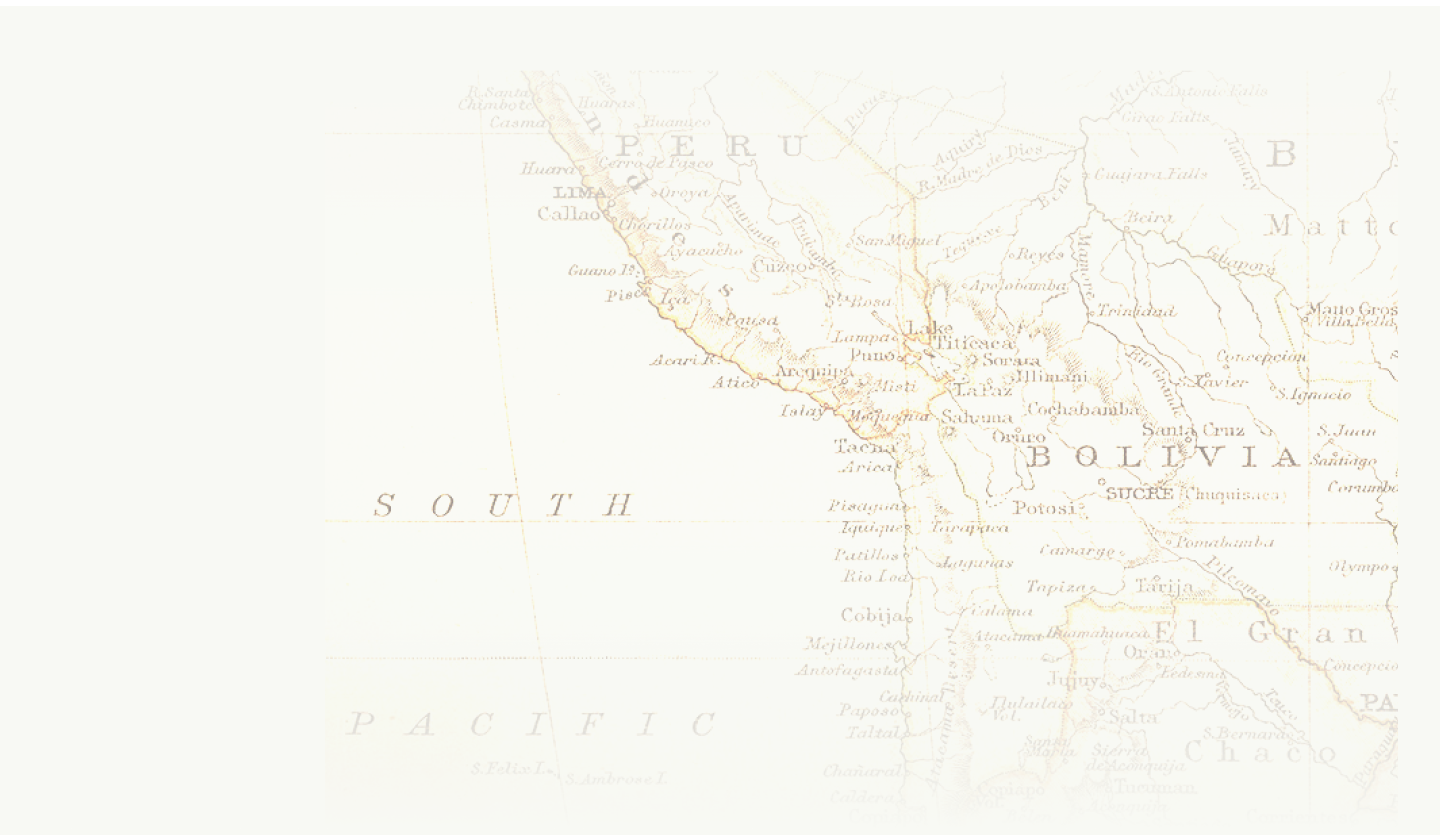
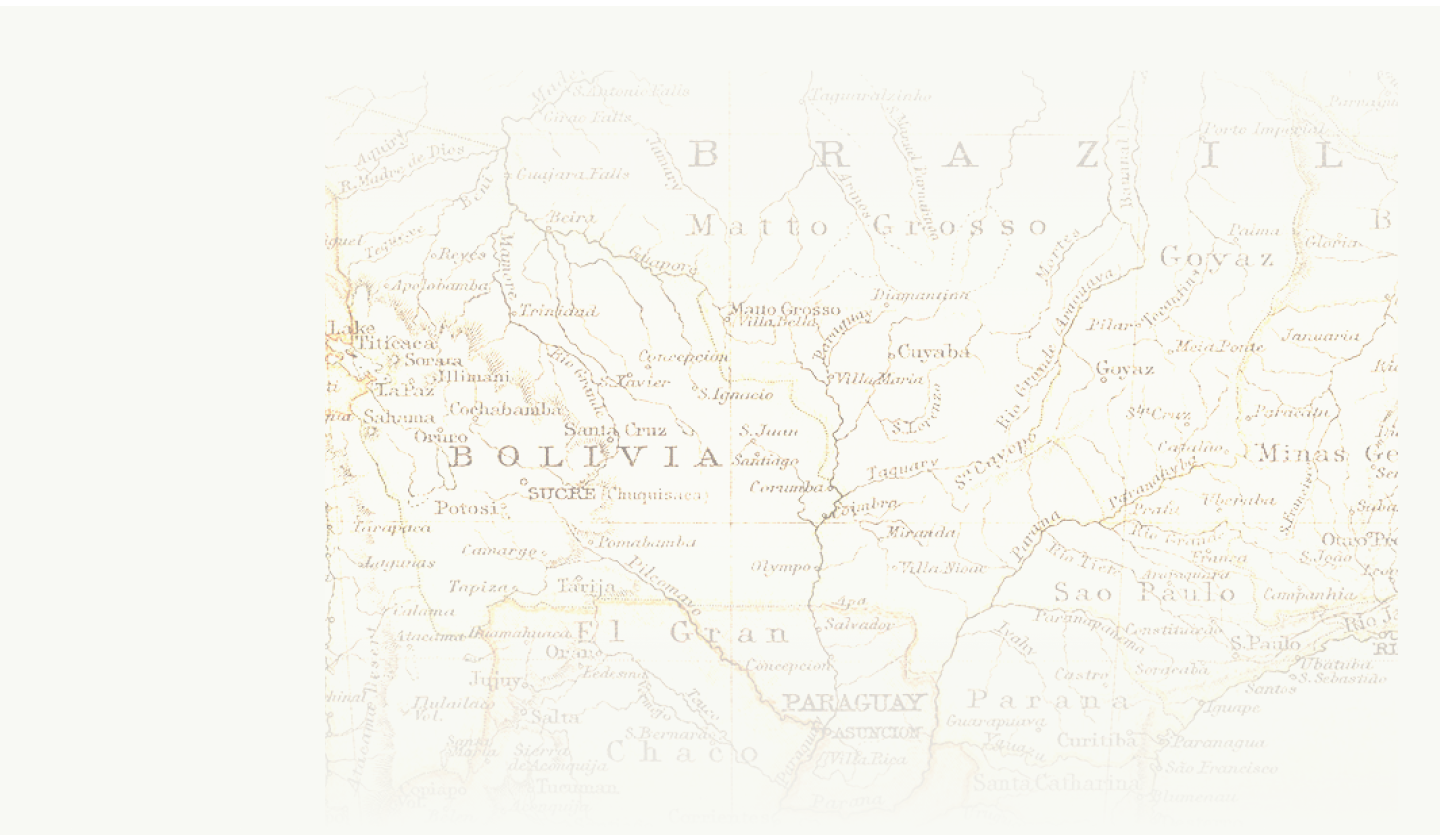
Rename AI assistant to Selma, update culture headline, fix map asset
Renames the AI concierge persona from Gaúcho to Selma across the
desktop widget and the mobile experience (display text only — internal
class/function/file names are unchanged). Updates the culture section
headline to "Experience the flavor of south brazil" with Brazil broken
onto its own line, and swaps in the fixed brazilmap.png background
asset (the prior version had a rendering glitch).

diff --git a/ai-concierge.js b/ai-concierge.js
@@ -1,11 +1,12 @@
 // Gaúcho — website AI concierge (desktop widget, matches gaucho.js aesthetic/pattern)
 
-const AI_GREETING = "I'm Gaúcho. I can help you schedule a reservation, book a large party, answer menu questions, suggest a wine pairing, or fill you in on Fogo Rewards. What can I help with?";
+const AI_GREETING = "I'm Selma. I can help you schedule a reservation, book a large party, answer menu questions, suggest a wine pairing, or fill you in on Fogo Rewards. What can I help with?";
 
 const AI_RESPONSES = [
   {
     hit: ['reservation', 'reserve', 'table', 'book'],
-    reply: "I can help with that — head to our reservations page to pick a time, or tell me the party size and date and I'll flag it for our host stand.",
+    reply: "Happy to help — let's get your table booked.",
+    action: 'reserve',
   },
   {
     hit: ['churrasco', 'how does this work'],
@@ -37,7 +38,7 @@ const AI_FALLBACK = "Great question — I'll make sure our team follows up. In t
 
 function matchAiConcierge(text) {
   const q = text.toLowerCase();
-  return (AI_RESPONSES.find((r) => r.hit.some((h) => q.includes(h))) || { reply: AI_FALLBACK }).reply;
+  return AI_RESPONSES.find((r) => r.hit.some((h) => q.includes(h))) || { reply: AI_FALLBACK };
 }
 
 const aiBackdrop = document.getElementById('aiBackdrop');
@@ -49,7 +50,11 @@ const aiCloseBtn = document.getElementById('aiCloseBtn');
 const navAiBtn = document.getElementById('navAiBtn');
 const aiQuickReplies = document.getElementById('aiQuickReplies');
 
+const DEFAULT_QUICK_REPLIES_HTML = aiQuickReplies ? aiQuickReplies.innerHTML : '';
+const DEFAULT_INPUT_PLACEHOLDER = aiInput ? aiInput.placeholder : '';
+
 let aiStarted = false;
+let reservation = null; // { step: 'party' | 'date' | 'time' | 'name', party, date, time, name }
 
 function scrollAiToBottom() {
   aiMessages.scrollTop = aiMessages.scrollHeight;
@@ -76,11 +81,113 @@ function hideAiTyping() {
   document.getElementById('aiTypingIndicator')?.remove();
 }
 
+function setAiQuickReplies(chips) {
+  if (!aiQuickReplies) return;
+  aiQuickReplies.innerHTML = chips
+    .map((c) => `<button type="button" class="ai-chip" data-q="${c.value}">${c.label}</button>`)
+    .join('');
+}
+
+function restoreDefaultQuickReplies() {
+  if (aiQuickReplies) aiQuickReplies.innerHTML = DEFAULT_QUICK_REPLIES_HTML;
+  if (aiInput) aiInput.placeholder = DEFAULT_INPUT_PLACEHOLDER;
+}
+
+// Next 6 selectable days, OpenTable-style, starting today
+function buildReservationDates() {
+  const out = [];
+  const today = new Date();
+  for (let i = 0; i < 6; i++) {
+    const d = new Date(today);
+    d.setDate(today.getDate() + i);
+    let label;
+    if (i === 0) label = 'Today';
+    else if (i === 1) label = 'Tomorrow';
+    else label = `${d.toLocaleDateString('en-US', { weekday: 'short' })} ${d.getDate()}`;
+    out.push(label);
+  }
+  return out;
+}
+
+const RESERVATION_TIMES = ['5:00 PM', '5:30 PM', '6:00 PM', '6:30 PM', '7:00 PM', '7:30 PM', '8:00 PM'];
+
+function startReservationFlow() {
+  reservation = { step: 'party' };
+  showAiTyping();
+  setTimeout(() => {
+    hideAiTyping();
+    addAiMessage('First — how many people in your party?', 'ai');
+    setAiQuickReplies(
+      ['2', '3', '4', '5', '6', '8 or more'].map((v) => ({ label: v, value: v }))
+    );
+  }, 500);
+}
+
+function cancelReservationFlow() {
+  reservation = null;
+  addAiMessage("No problem — let me know whenever you're ready to book.", 'ai');
+  restoreDefaultQuickReplies();
+}
+
+function advanceReservation(value) {
+  showAiTyping();
+  setTimeout(() => {
+    hideAiTyping();
+    const step = reservation.step;
+
+    if (step === 'party') {
+      reservation.party = value;
+      reservation.step = 'date';
+      addAiMessage(`Party of ${value} — got it. What day works?`, 'ai');
+      setAiQuickReplies(buildReservationDates().map((d) => ({ label: d, value: d })));
+    } else if (step === 'date') {
+      reservation.date = value;
+      reservation.step = 'time';
+      addAiMessage(`${value} it is. What time?`, 'ai');
+      setAiQuickReplies(RESERVATION_TIMES.map((t) => ({ label: t, value: t })));
+    } else if (step === 'time') {
+      reservation.time = value;
+      reservation.step = 'name';
+      addAiMessage("Perfect. What name should we put the reservation under?", 'ai');
+      setAiQuickReplies([]);
+      if (aiInput) aiInput.placeholder = 'Type the name for your reservation…';
+    } else if (step === 'name') {
+      reservation.name = value;
+      reservation.step = 'notes';
+      addAiMessage(
+        "Last thing — anything specific we should know? Dietary considerations, allergies, or anything about the guest experience that'd make the visit better.",
+        'ai'
+      );
+      setAiQuickReplies([{ label: 'Nothing to add', value: 'Nothing to add' }]);
+      if (aiInput) aiInput.placeholder = 'Type any details…';
+    } else if (step === 'notes') {
+      reservation.notes = value;
+      finishReservation();
+    }
+  }, 700 + Math.random() * 500);
+}
+
+function finishReservation() {
+  const { party, date, time, name, notes } = reservation;
+  const hasNotes = notes && notes.toLowerCase() !== 'nothing to add';
+  const noteLine = hasNotes ? ` I've noted: "${notes}."` : '';
+  addAiMessage(
+    `You're all set, ${name} — party of ${party} on ${date} at ${time}.${noteLine} We'll have your table ready. See you soon!`,
+    'ai'
+  );
+  reservation = null;
+  restoreDefaultQuickReplies();
+}
+
 function aiReplyTo(userText) {
   showAiTyping();
   setTimeout(() => {
     hideAiTyping();
-    addAiMessage(matchAiConcierge(userText), 'ai');
+    const match = matchAiConcierge(userText);
+    addAiMessage(match.reply, 'ai');
+    if (match.action === 'reserve') {
+      setTimeout(() => startReservationFlow(), 500);
+    }
   }, 700 + Math.random() * 500);
 }
 
@@ -89,7 +196,16 @@ function sendAiUserMessage(text) {
   if (!trimmed) return;
   addAiMessage(trimmed, 'user');
   aiInput.value = '';
-  aiReplyTo(trimmed);
+
+  if (reservation) {
+    if (['cancel', 'never mind', 'nevermind', 'stop'].includes(trimmed.toLowerCase())) {
+      cancelReservationFlow();
+    } else {
+      advanceReservation(trimmed);
+    }
+  } else {
+    aiReplyTo(trimmed);
+  }
 }
 
 function openAiPanel() {
@@ -112,6 +228,8 @@ function closeAiPanel() {
   aiMessages.innerHTML = '';
   aiInput.value = '';
   aiStarted = false;
+  reservation = null;
+  restoreDefaultQuickReplies();
 }
 
 if (navAiBtn) navAiBtn.addEventListener('click', openAiPanel);
@@ -126,7 +244,9 @@ if (aiForm) {
 }
 
 if (aiQuickReplies) {
-  aiQuickReplies.querySelectorAll('.ai-chip').forEach((chip) => {
-    chip.addEventListener('click', () => sendAiUserMessage(chip.dataset.q));
+  aiQuickReplies.addEventListener('click', (e) => {
+    const chip = e.target.closest('.ai-chip');
+    if (!chip) return;
+    sendAiUserMessage(chip.dataset.q);
   });
 }

diff --git a/gaucho.js b/gaucho.js
@@ -1,6 +1,6 @@
 // Gaucho - in-restaurant AI meal assistant (mobile experience)
 
-const GAUCHO_GREETING = "I'm Gaucho, your table's meal assistant tonight. Ask me about the menu, get a wine pairing, flag a dietary need, or just say hi. What can I help with?";
+const GAUCHO_GREETING = "I'm Selma, your table's meal assistant tonight. Ask me about the menu, get a wine pairing, flag a dietary need, or just say hi. What can I help with?";
 
 const GAUCHO_RESPONSES = [
   {
@@ -342,13 +342,15 @@ function closeCulturePanel() {
 if (cultureCloseBtn) cultureCloseBtn.addEventListener('click', closeCulturePanel);
 
 const PORTUGUESE_PHRASES = [
-  { english: 'Cheers!', portuguese: 'Saude!', phonetic: 'sah-OO-jee', image: 'images/statics/image%20445.png' },
-  { english: 'Delicious', portuguese: 'Delicioso', phonetic: 'deh-lee-see-OH-zoo', image: 'images/statics/charuterie.png' },
-  { english: 'Thank you', portuguese: 'Obrigado', phonetic: 'oh-bree-GAH-doo', image: 'images/statics/image%20443.png' },
-  { english: 'Fire', portuguese: 'Fogo', phonetic: 'FOH-goo', image: 'images/statics/fire%20bg-full.png' },
-  { english: 'Friend', portuguese: 'Amigo', phonetic: 'ah-MEE-goo', image: 'images/statics/the%20bar.png' },
-  { english: 'Grilled meat', portuguese: 'Churrasco', phonetic: 'shoo-HAHS-koo', image: 'images/statics/image%20441.png' },
+  { english: 'Cheers!', portuguese: 'Saude!', phonetic: 'sah-OO-jee', image: 'images/gaucho/phrases/cheers.jpg' },
+  { english: 'Delicious', portuguese: 'Delicioso', phonetic: 'deh-lee-see-OH-zoo', image: 'images/gaucho/phrases/delicious.jpg' },
+  { english: 'Thank you', portuguese: 'Obrigado', phonetic: 'oh-bree-GAH-doo', image: 'images/gaucho/phrases/thankyou.jpg' },
+  { english: 'Fire', portuguese: 'Fogo', phonetic: 'FOH-goo', image: 'images/gaucho/phrases/fire.jpg' },
+  { english: 'Friend', portuguese: 'Amigo', phonetic: 'ah-MEE-goo', image: 'images/gaucho/phrases/friend.jpg' },
+  { english: 'Grilled meat', portuguese: 'Churrasco', phonetic: 'shoo-HAHS-koo', image: 'images/gaucho/phrases/churrasco.jpg' },
 ];
+
+PORTUGUESE_PHRASES.forEach((phrase) => { new Image().src = phrase.image; });
 
 const phraseImage = document.getElementById('phraseImage');
 const phraseEnglish = document.getElementById('phraseEnglish');

diff --git a/index.html b/index.html
@@ -21,7 +21,7 @@
 
     <div class="nav-actions">
       <a href="#" class="btn btn-clay nav-reservations">Reservations</a>
-      <button type="button" class="nav-ai-btn" id="navAiBtn" aria-label="Ask Gaúcho">
+      <button type="button" class="nav-ai-btn" id="navAiBtn" aria-label="Ask Selma">
         <img src="Icons/ai.png" alt="" class="nav-ai-icon">
       </button>
     </div>
@@ -81,7 +81,7 @@
   <header class="ai-panel-header">
     <span class="ai-panel-identity">
       <span class="ai-panel-avatar"><img src="Icons/ai.png" alt=""></span>
-      <span class="ai-panel-name">Gaucho</span>
+      <span class="ai-panel-name">Selma</span>
     </span>
     <button type="button" class="ai-panel-close" id="aiCloseBtn" aria-label="Close">
       <span></span><span></span>
@@ -100,7 +100,7 @@
   </div>
 
   <form class="ai-panel-input-row" id="aiForm">
-    <input type="text" id="aiInput" placeholder="Ask Ga&uacute;cho anything&hellip;" autocomplete="off">
+    <input type="text" id="aiInput" placeholder="Ask Selma anything&hellip;" autocomplete="off">
     <button type="submit" class="ai-send-btn" aria-label="Send">
       <svg viewBox="0 0 24 24" fill="none" aria-hidden="true"><path d="M4 12h15.5M13 5.5 19.5 12 13 18.5" stroke="currentColor" stroke-width="2" stroke-linecap="round" stroke-linejoin="round"/></svg>
     </button>
@@ -185,7 +185,7 @@
     <div class="culture-inner">
       <img src="images/statics/meatskewer.png" alt="Fire-roasted meat skewer, carved tableside" class="culture-skewer">
       <span class="culture-eyebrow">The Art of Churrasco /Since 1975</span>
-      <h2 class="culture-title">Experience<br>the culture<br>of brazil</h2>
+      <h2 class="culture-title">Experience<br>the flavor<br>of south<br>brazil</h2>
 
       <div class="culture-col culture-col-right">
         <h4 class="culture-h4">What is Churrasco?</h4>

diff --git a/gaucho.html b/gaucho.html
@@ -3,7 +3,7 @@
 <head>
 <meta charset="UTF-8">
 <meta name="viewport" content="width=device-width, initial-scale=1.0, viewport-fit=cover">
-<title>Gaucho - Your Table's AI Meal Assistant</title>
+<title>Selma - Your Table's AI Meal Assistant</title>
 <link rel="stylesheet" href="style.css">
 <link rel="stylesheet" href="gaucho.css">
 </head>
@@ -27,7 +27,7 @@
     <div class="home-content">
       <p class="home-welcome-line"><strong>Welcome</strong> Chris &amp; Family</p>
       <img src="images/gaucho/home-flame-dark.png" alt="" class="home-flame">
-      <h1 class="home-title">Meet<br>Guacho.</h1>
+      <h1 class="home-title">Meet<br>Selma.</h1>
       <p class="home-sub">Your table's personal meal assistant tonight.<br>Ask about the menu, get a pairing, or just say hi.</p>
       <button type="button" class="home-start-btn" id="gauchoStartBtn">Start Chatting</button>
       <div class="home-nav-row">
@@ -52,7 +52,7 @@
     <header class="gaucho-chat-header">
       <div class="gaucho-chat-identity">
         <span class="gaucho-avatar"><img src="images/gaucho/diamond-mark.png" alt=""></span>
-        <span class="gaucho-chat-name">Guacho</span>
+        <span class="gaucho-chat-name">Selma</span>
       </div>
       <button type="button" class="icon-x gaucho-end-btn" id="gauchoEndBtn" aria-label="End chat"><span></span><span></span></button>
     </header>
@@ -137,7 +137,7 @@
     </div>
 
     <div class="cuts-soon" id="cutsSoon">
-      <p>More categories are coming soon - ask Gaucho about tonight's lamb, pork, or seafood in the meantime.</p>
+      <p>More categories are coming soon - ask Selma about tonight's lamb, pork, or seafood in the meantime.</p>
     </div>
   </section>
 

diff --git a/fogo-boys-night.html b/fogo-boys-night.html
@@ -22,7 +22,7 @@
 
     <div class="nav-actions">
       <a href="#reserve" class="btn btn-clay nav-reservations">Reservations</a>
-      <button type="button" class="nav-ai-btn" id="navAiBtn" aria-label="Ask Gaúcho">
+      <button type="button" class="nav-ai-btn" id="navAiBtn" aria-label="Ask Selma">
         <img src="Icons/ai.png" alt="" class="nav-ai-icon">
       </button>
     </div>
@@ -82,7 +82,7 @@
   <header class="ai-panel-header">
     <span class="ai-panel-identity">
       <span class="ai-panel-avatar"><img src="Icons/ai.png" alt=""></span>
-      <span class="ai-panel-name">Gaucho</span>
+      <span class="ai-panel-name">Selma</span>
     </span>
     <button type="button" class="ai-panel-close" id="aiCloseBtn" aria-label="Close">
       <span></span><span></span>
@@ -101,7 +101,7 @@
   </div>
 
   <form class="ai-panel-input-row" id="aiForm">
-    <input type="text" id="aiInput" placeholder="Ask Ga&uacute;cho anything&hellip;" autocomplete="off">
+    <input type="text" id="aiInput" placeholder="Ask Selma anything&hellip;" autocomplete="off">
     <button type="submit" class="ai-send-btn" aria-label="Send">
       <svg viewBox="0 0 24 24" fill="none" aria-hidden="true"><path d="M4 12h15.5M13 5.5 19.5 12 13 18.5" stroke="currentColor" stroke-width="2" stroke-linecap="round" stroke-linejoin="round"/></svg>
     </button>

diff --git a/fogo-rewards.html b/fogo-rewards.html
@@ -22,7 +22,7 @@
 
     <div class="nav-actions">
       <a href="#" class="btn btn-clay nav-reservations">Reservations</a>
-      <button type="button" class="nav-ai-btn" id="navAiBtn" aria-label="Ask Gaúcho">
+      <button type="button" class="nav-ai-btn" id="navAiBtn" aria-label="Ask Selma">
         <img src="Icons/ai.png" alt="" class="nav-ai-icon">
       </button>
     </div>
@@ -82,7 +82,7 @@
   <header class="ai-panel-header">
     <span class="ai-panel-identity">
       <span class="ai-panel-avatar"><img src="Icons/ai.png" alt=""></span>
-      <span class="ai-panel-name">Gaucho</span>
+      <span class="ai-panel-name">Selma</span>
     </span>
     <button type="button" class="ai-panel-close" id="aiCloseBtn" aria-label="Close">
       <span></span><span></span>
@@ -101,7 +101,7 @@
   </div>
 
   <form class="ai-panel-input-row" id="aiForm">
-    <input type="text" id="aiInput" placeholder="Ask Ga&uacute;cho anything&hellip;" autocomplete="off">
+    <input type="text" id="aiInput" placeholder="Ask Selma anything&hellip;" autocomplete="off">
     <button type="submit" class="ai-send-btn" aria-label="Send">
       <svg viewBox="0 0 24 24" fill="none" aria-hidden="true"><path d="M4 12h15.5M13 5.5 19.5 12 13 18.5" stroke="currentColor" stroke-width="2" stroke-linecap="round" stroke-linejoin="round"/></svg>
     </button>

diff --git a/style.css b/style.css
@@ -580,7 +580,7 @@ a { color: inherit; text-decoration: none; }
   font-family: var(--font-display);
   font-weight: 400;
   font-size: 110px;
-  line-height: 172px;
+  line-height: 155px;
   text-transform: uppercase;
   z-index: 1;
   opacity: 0;
